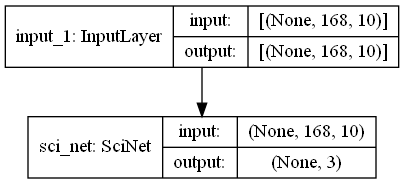
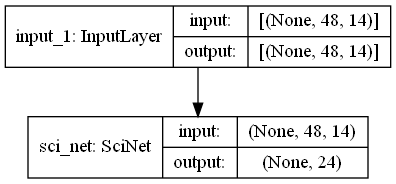
changed data source

Changed region(s): [[0.0303, 0.0272, 0.9697, 0.3804], [0.0606, 0.625, 0.9394, 0.9783], [0.6667, 0.8424, 0.8788, 0.9511]]

diff --git a/main.py b/main.py
@@ -34,18 +34,20 @@ def make_model(time_stamps, n_features):
 
 # Parametres
 degree_of_differencing = 2
-look_back_window, forecast_horizon = 168, 3
-batch_size = 64
-learning_rate = 5e-3
-h, kernel_size, level = 1, 5, 3
+look_back_window, forecast_horizon = 48, 24
+batch_size = 4
+learning_rate = 9e-3
+h, kernel_size, level = 4, 5, 3
 stride = look_back_window + forecast_horizon
-data_filepath = 'ETH-USD-2020-06-01.csv'
-y_col = 'close'
+# data_filepath = 'ETH-USD-2020-06-01.csv'
+data_filepath = 'ETDataset-main/ETT-small/ETTh1.csv'
+y_col = 'OT'
+index_col = 'date'
 
 
 if __name__ == '__main__':
     # Load and preprocess data
-    data = pd.read_csv(data_filepath)
+    data = pd.read_csv(data_filepath, index_col=index_col)
 
     train_data = data[:int(0.6 * len(data))]
     val_data = data[int(0.6 * len(data)):int(0.8 * len(data))]
@@ -53,7 +55,7 @@ if __name__ == '__main__':
 
     # Train model
     preprocessor = ARIMAPreprocessor(y_col, look_back_window, forecast_horizon, stride, degree_of_differencing,
-                                     relative=True)
+                                     relative=True, scaling='standard')
     X_train, y_train = preprocessor.fit_transform(train_data)
     X_val, y_val = preprocessor.transform(val_data)
     print(f'Input shape: X{X_train.shape}, y{y_train.shape}')

diff --git a/preprocessing.py b/preprocessing.py
@@ -83,8 +83,6 @@ class ARIMAPreprocessor(TransformerMixin):
             self.y_scaler = RobustScaler()
 
     def fit_transform(self, data, **fit_params):
-        data = data.drop(columns=['time'])
-
         self.y_idx = list(data.columns).index(self.y_col)
 
         # Fill missing values via interpolation
@@ -113,8 +111,6 @@ class ARIMAPreprocessor(TransformerMixin):
         return X, y
 
     def transform(self, data):
-        data = data.drop(columns=['time'])
-
         # Fill missing values via interpolation
         data = self.interpolation_imputer.transform(data)
 
